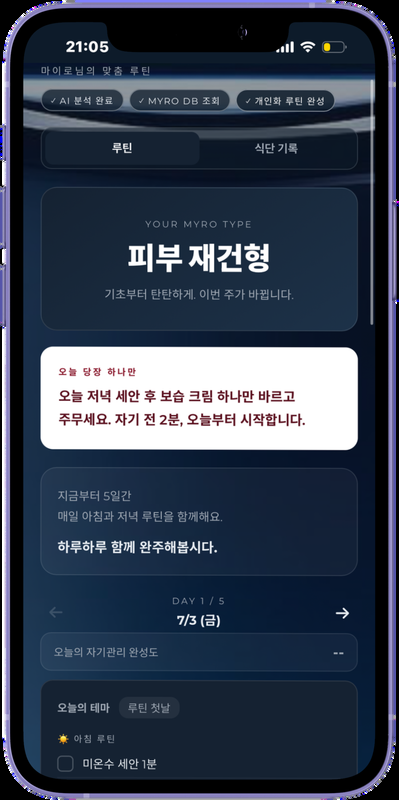
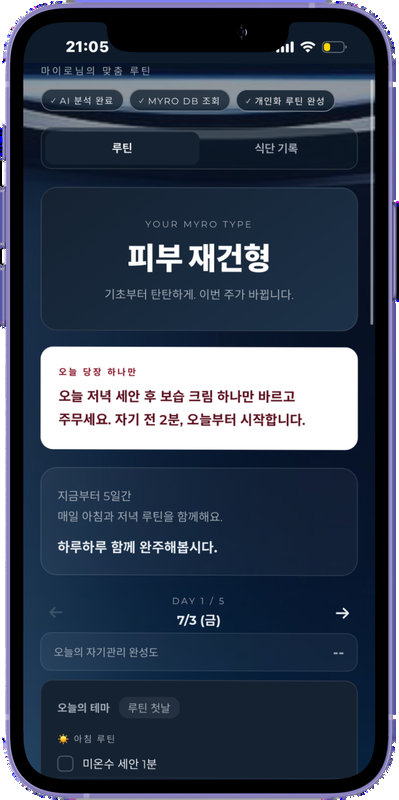
마감 점검: 팀 장 제목 높이 통일, 섹션 장 라벨 위치, MYRO 화면 검은 모서리 제거, × 표기 통일
Claude-Session: https://claude.ai/code/session_01JX8HRFD41nH27SkA2hhhmK

diff --git a/index.html b/index.html
@@ -101,11 +101,11 @@
   #alumni h2 { position: absolute; left: 120px; bottom: 330px; font-size: 104px; }
   #alumni .sub { position: absolute; left: 124px; bottom: 250px; font-size: 36px; color: var(--subtle); }
   #alumni .names { position: absolute; left: 124px; right: 120px; bottom: 120px; display: flex; gap: 64px; font-family: var(--display); font-size: 44px; font-weight: 600; color: var(--fg); border-top: 1px solid var(--line-strong); padding-top: 36px; }
-  #alumni .label { position: absolute; left: 124px; top: 108px; }
+  #alumni .label { position: absolute; left: 120px; top: 96px; }
 
   /* 팀 장 */
   .team .pad { right: 900px; }
-  .team .head { display: flex; align-items: center; gap: 32px; }
+  .team .head { display: flex; align-items: center; gap: 32px; height: 84px; }
   .label .ko { font-family: var(--sans); letter-spacing: 0; font-weight: 600; }
   .team .logo { display: block; }
   .team .logo.sq { height: 84px; border-radius: 14px; }
@@ -133,7 +133,7 @@
 
 
   /* 사업 둘째 장(숫자·모델·다음) */
-  .biz .head { display: flex; align-items: center; gap: 32px; }
+  .biz .head { display: flex; align-items: center; gap: 32px; height: 84px; }
   .biz .logo.sq { height: 84px; border-radius: 14px; display: block; }
   .biz .logo.wm { height: 56px; display: block; }
   .biz h2 { font-size: 64px; margin-top: 52px; }
@@ -459,7 +459,7 @@
     <h2>44기가 이어 갈 일</h2>
     <div class="rows">
       <div class="r"><div class="dt">11월 말 ~ 12월 초</div><div><div class="h">연세대 법률지원단 SHERPA 협력</div><div class="x">팀 서비스에서 생길 법률 쟁점을 찾아 현직 변호사에게 자문을 받습니다.</div></div></div>
-      <div class="r"><div class="dt">12. 5</div><div><div class="h">VERY x UNIS 연합 포스터 세션</div><div class="x">팀별 아이템을 포스터로 걸고 부스를 열어, 전시회처럼 소개합니다.</div></div></div>
+      <div class="r"><div class="dt">12. 5</div><div><div class="h">VERY × UNIS 연합 포스터 세션</div><div class="x">팀별 아이템을 포스터로 걸고 부스를 열어, 전시회처럼 소개합니다.</div></div></div>
       <div class="r"><div class="dt">2027. 1. 23</div><div><div class="h">44기 데모데이</div><div class="x">아이디어톤 이후 꾸린 팀이 한 학기의 결과를 발표합니다.</div></div></div>
     </div>
   </div>
